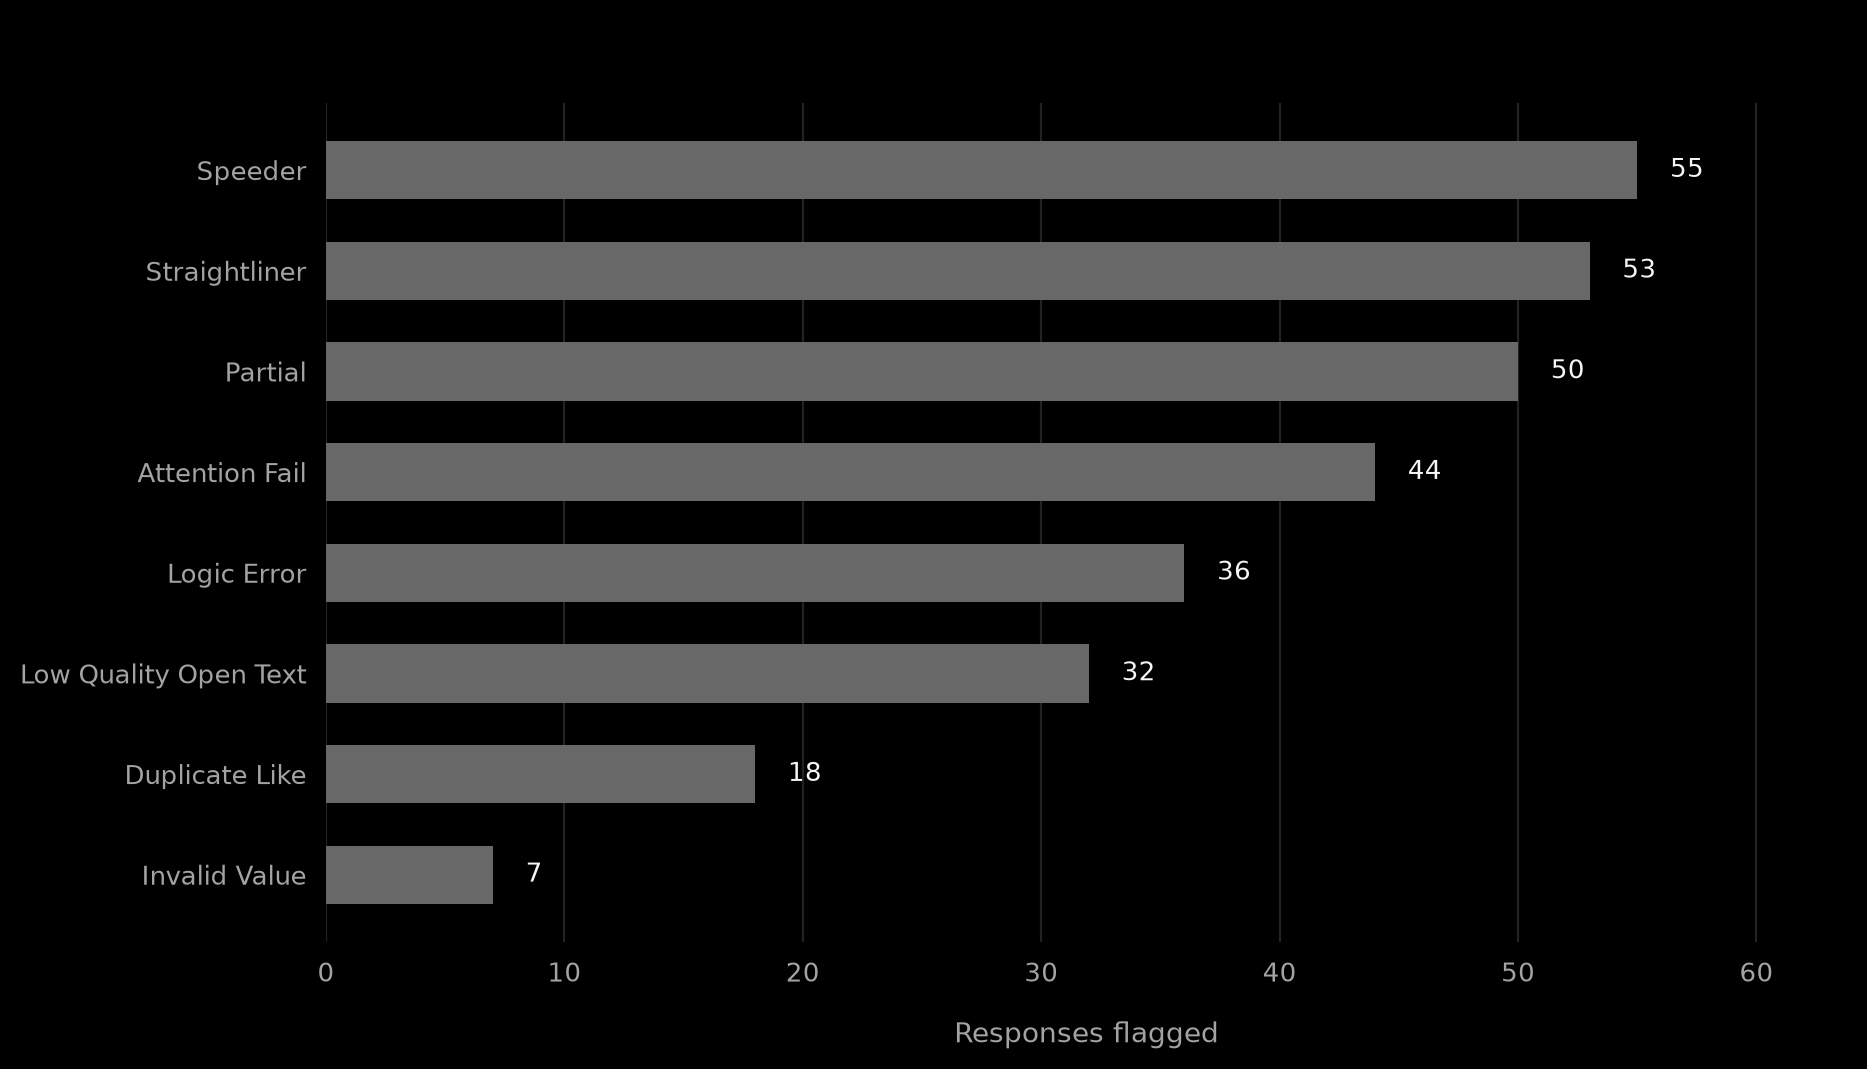
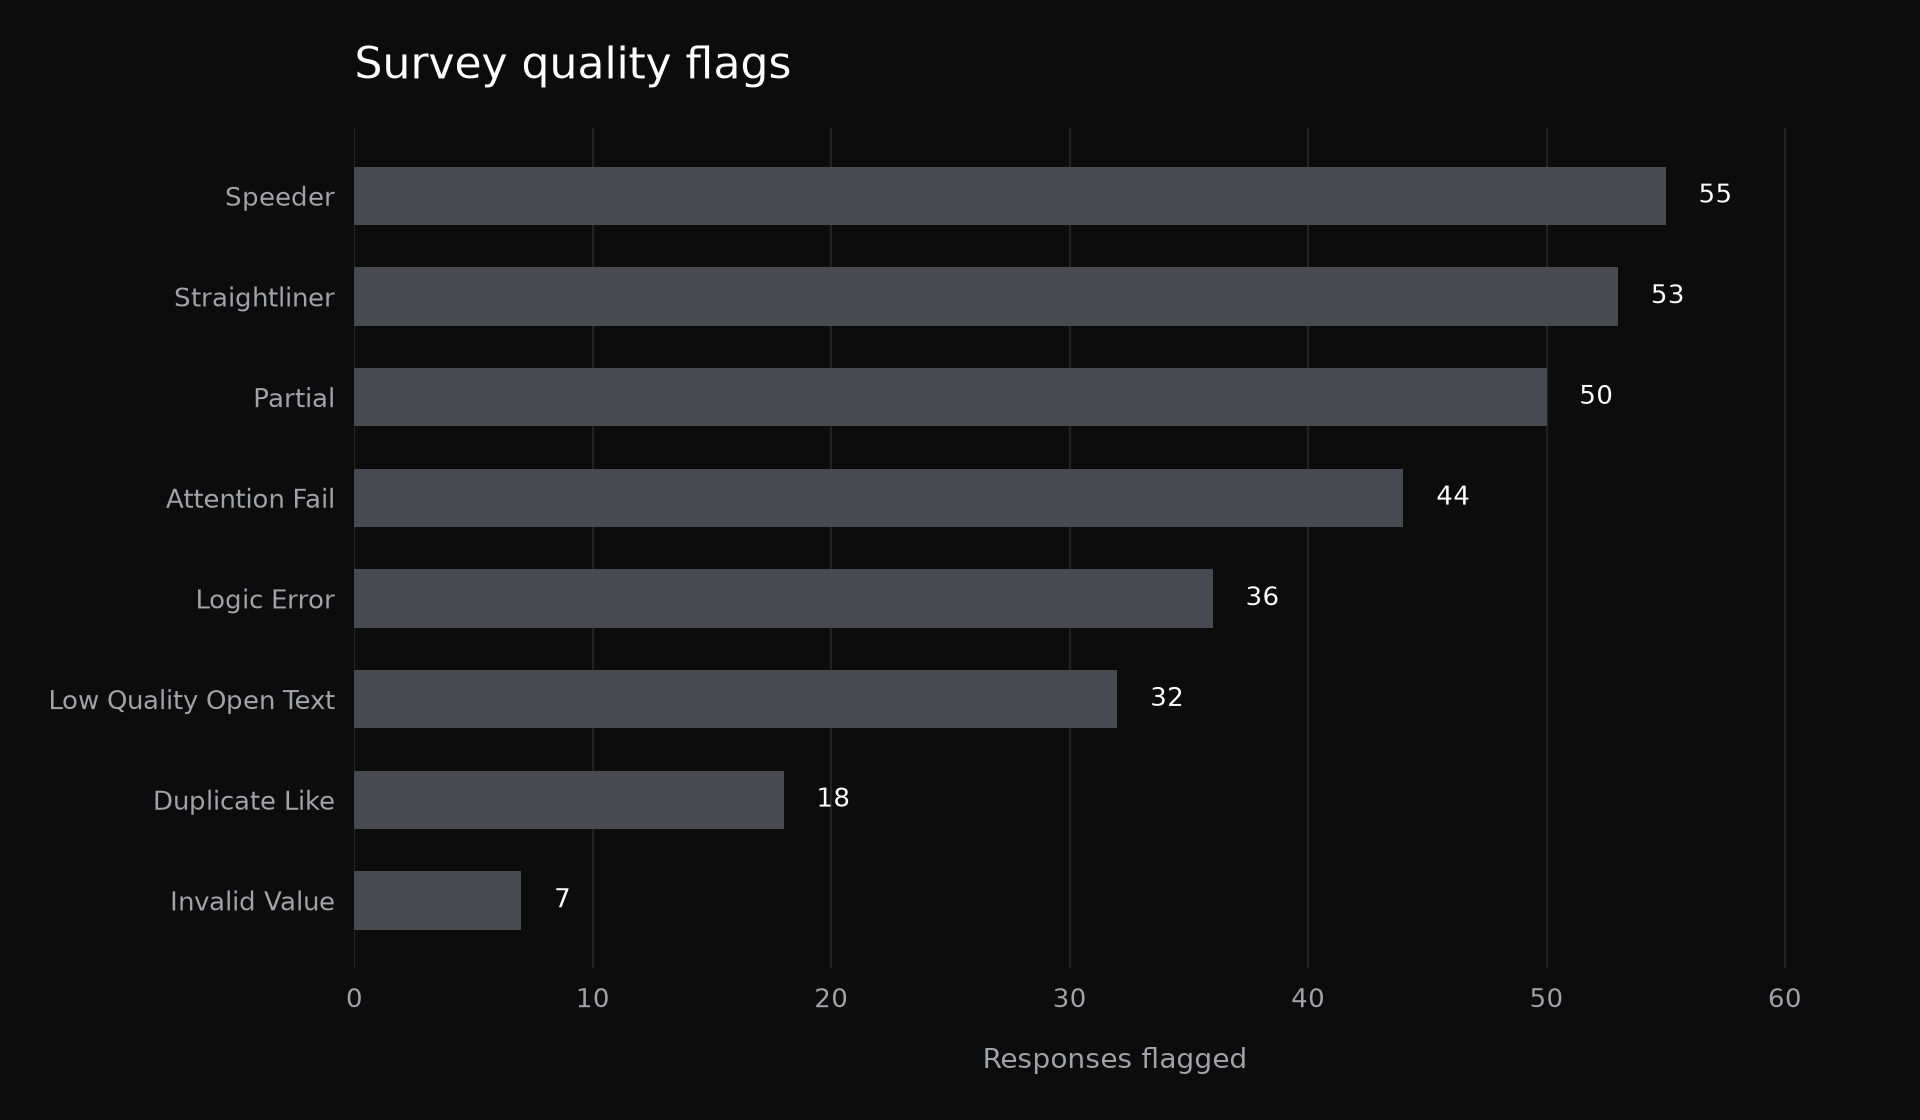
Align report figures with portfolio palette

diff --git a/analysis.py b/analysis.py
@@ -82,12 +82,12 @@ LOW_QUALITY_OPEN_TEXT = {
     "asdfgh",
 }
 
-FIGURE_BACKGROUND = "#000000"
-FIGURE_TEXT = "#f6f6f6"
-FIGURE_MUTED = "#a3a3a3"
-FIGURE_LINE = "#393939"
-FIGURE_BAR = "#686868"
-FIGURE_ACCENT = "#64d2ff"
+FIGURE_BACKGROUND = "#0C0C0D"
+FIGURE_TEXT = "#FFFFFF"
+FIGURE_MUTED = "#A2A2A9"
+FIGURE_LINE = "#313135"
+FIGURE_BAR = "#494950"
+FIGURE_ACCENT = "#FFFFFF"
 
 
 def run_git(*args: str) -> subprocess.CompletedProcess[str]:
@@ -464,6 +464,7 @@ def create_figures(df: pd.DataFrame, flags: pd.DataFrame, thresholds: dict[str, 
             pad=18,
             fontsize=16,
             fontweight=400,
+            color=FIGURE_TEXT,
         )
         ax.set_xlabel("Duration (seconds)", labelpad=12)
         ax.set_ylabel("Completed responses", labelpad=12)
@@ -496,6 +497,7 @@ def create_figures(df: pd.DataFrame, flags: pd.DataFrame, thresholds: dict[str, 
             pad=18,
             fontsize=16,
             fontweight=400,
+            color=FIGURE_TEXT,
         )
         ax.set_xlabel("Responses flagged", labelpad=12)
         ax.set_ylabel("")
